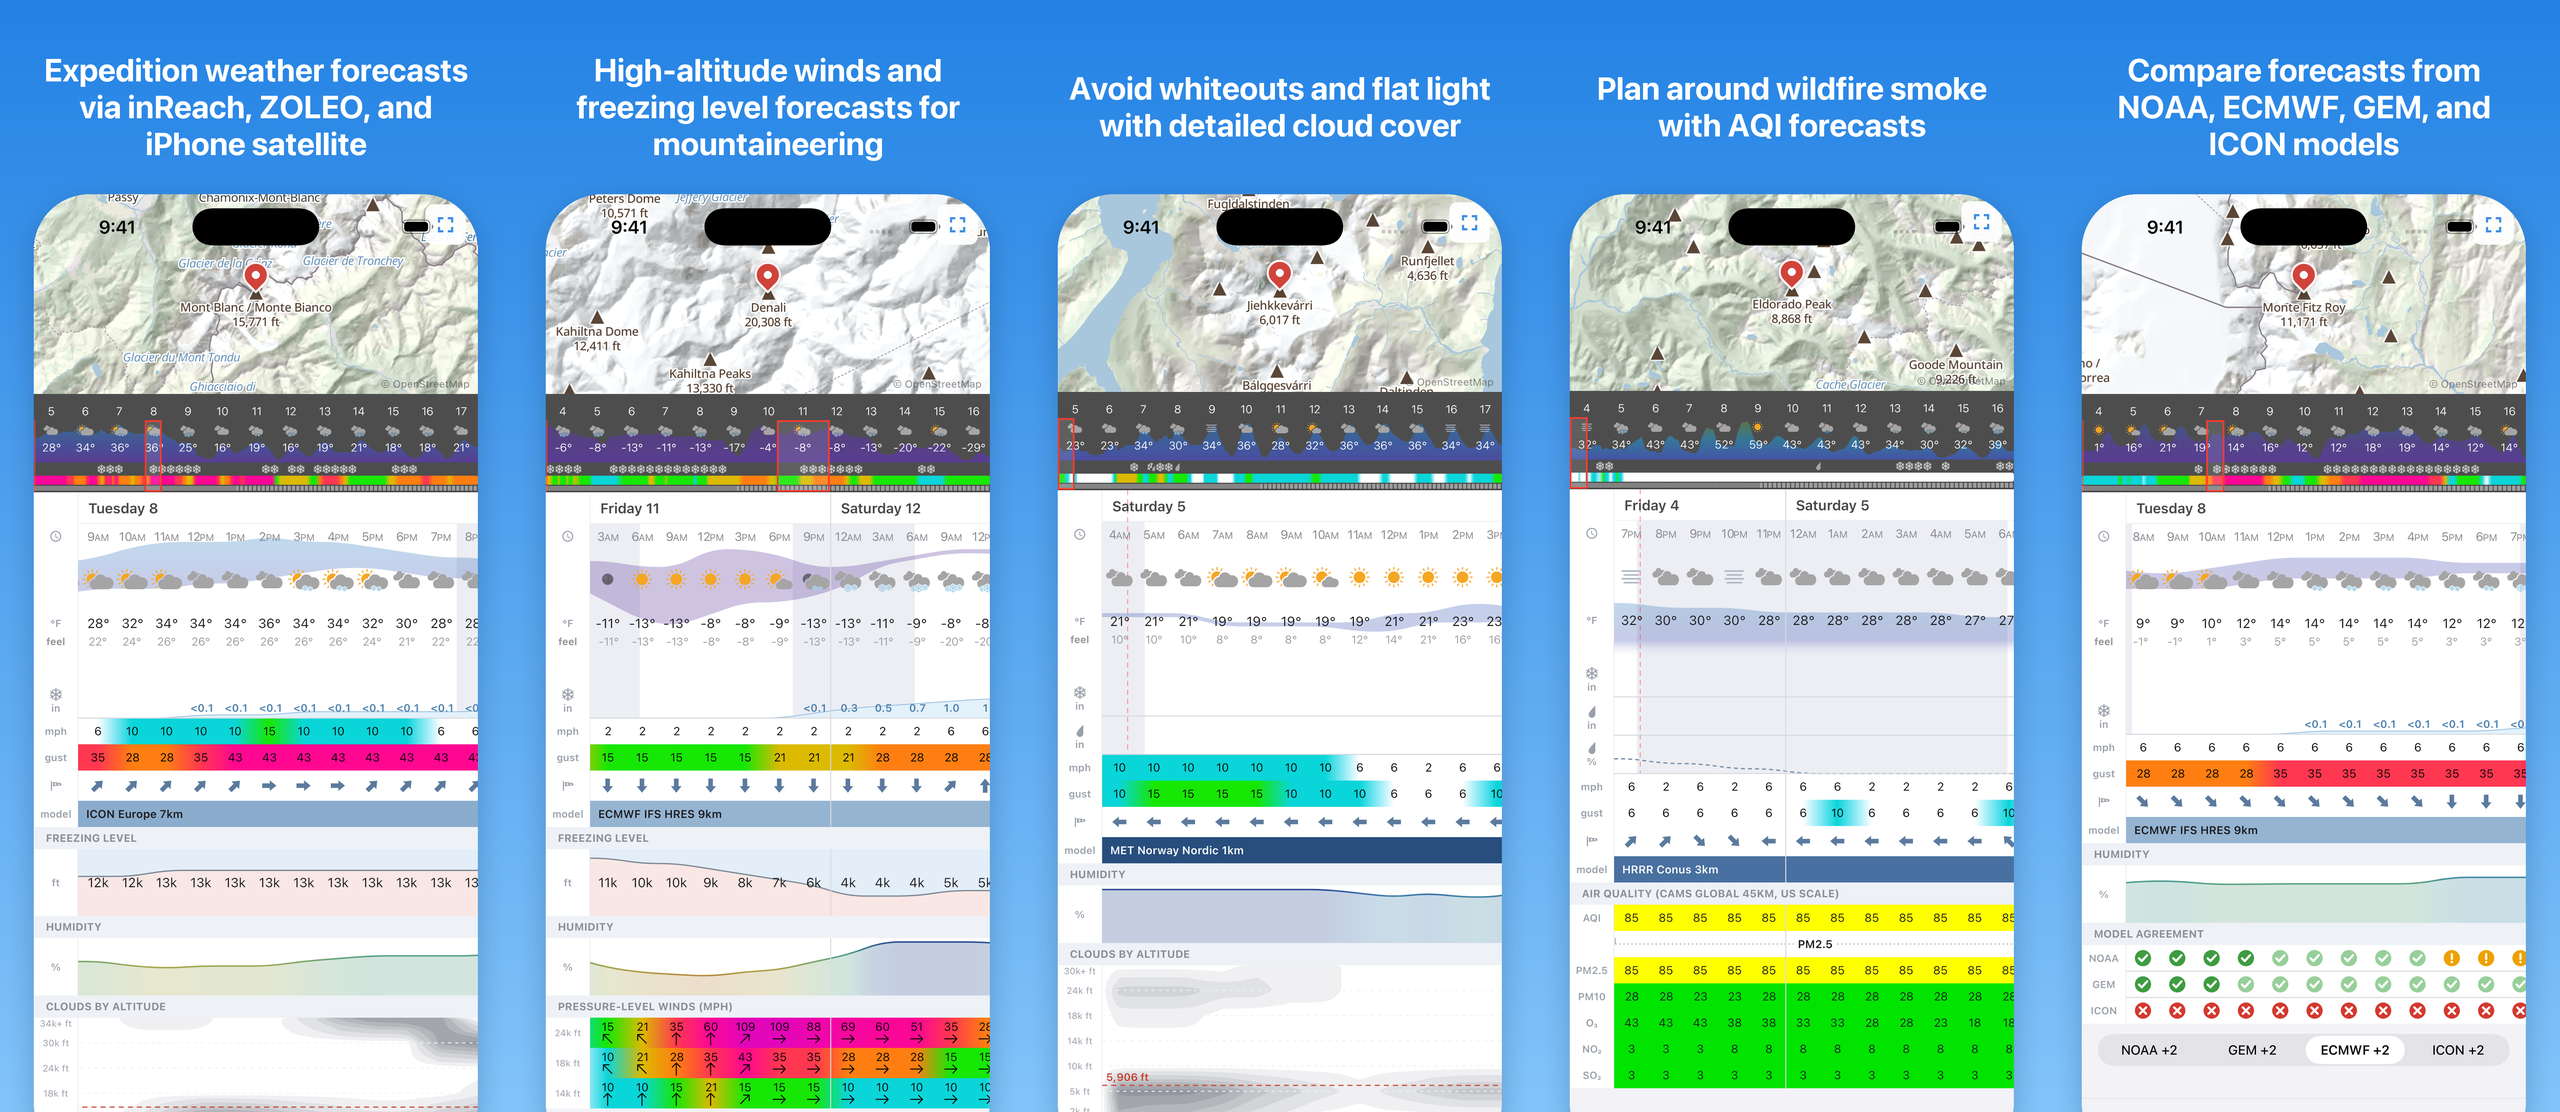
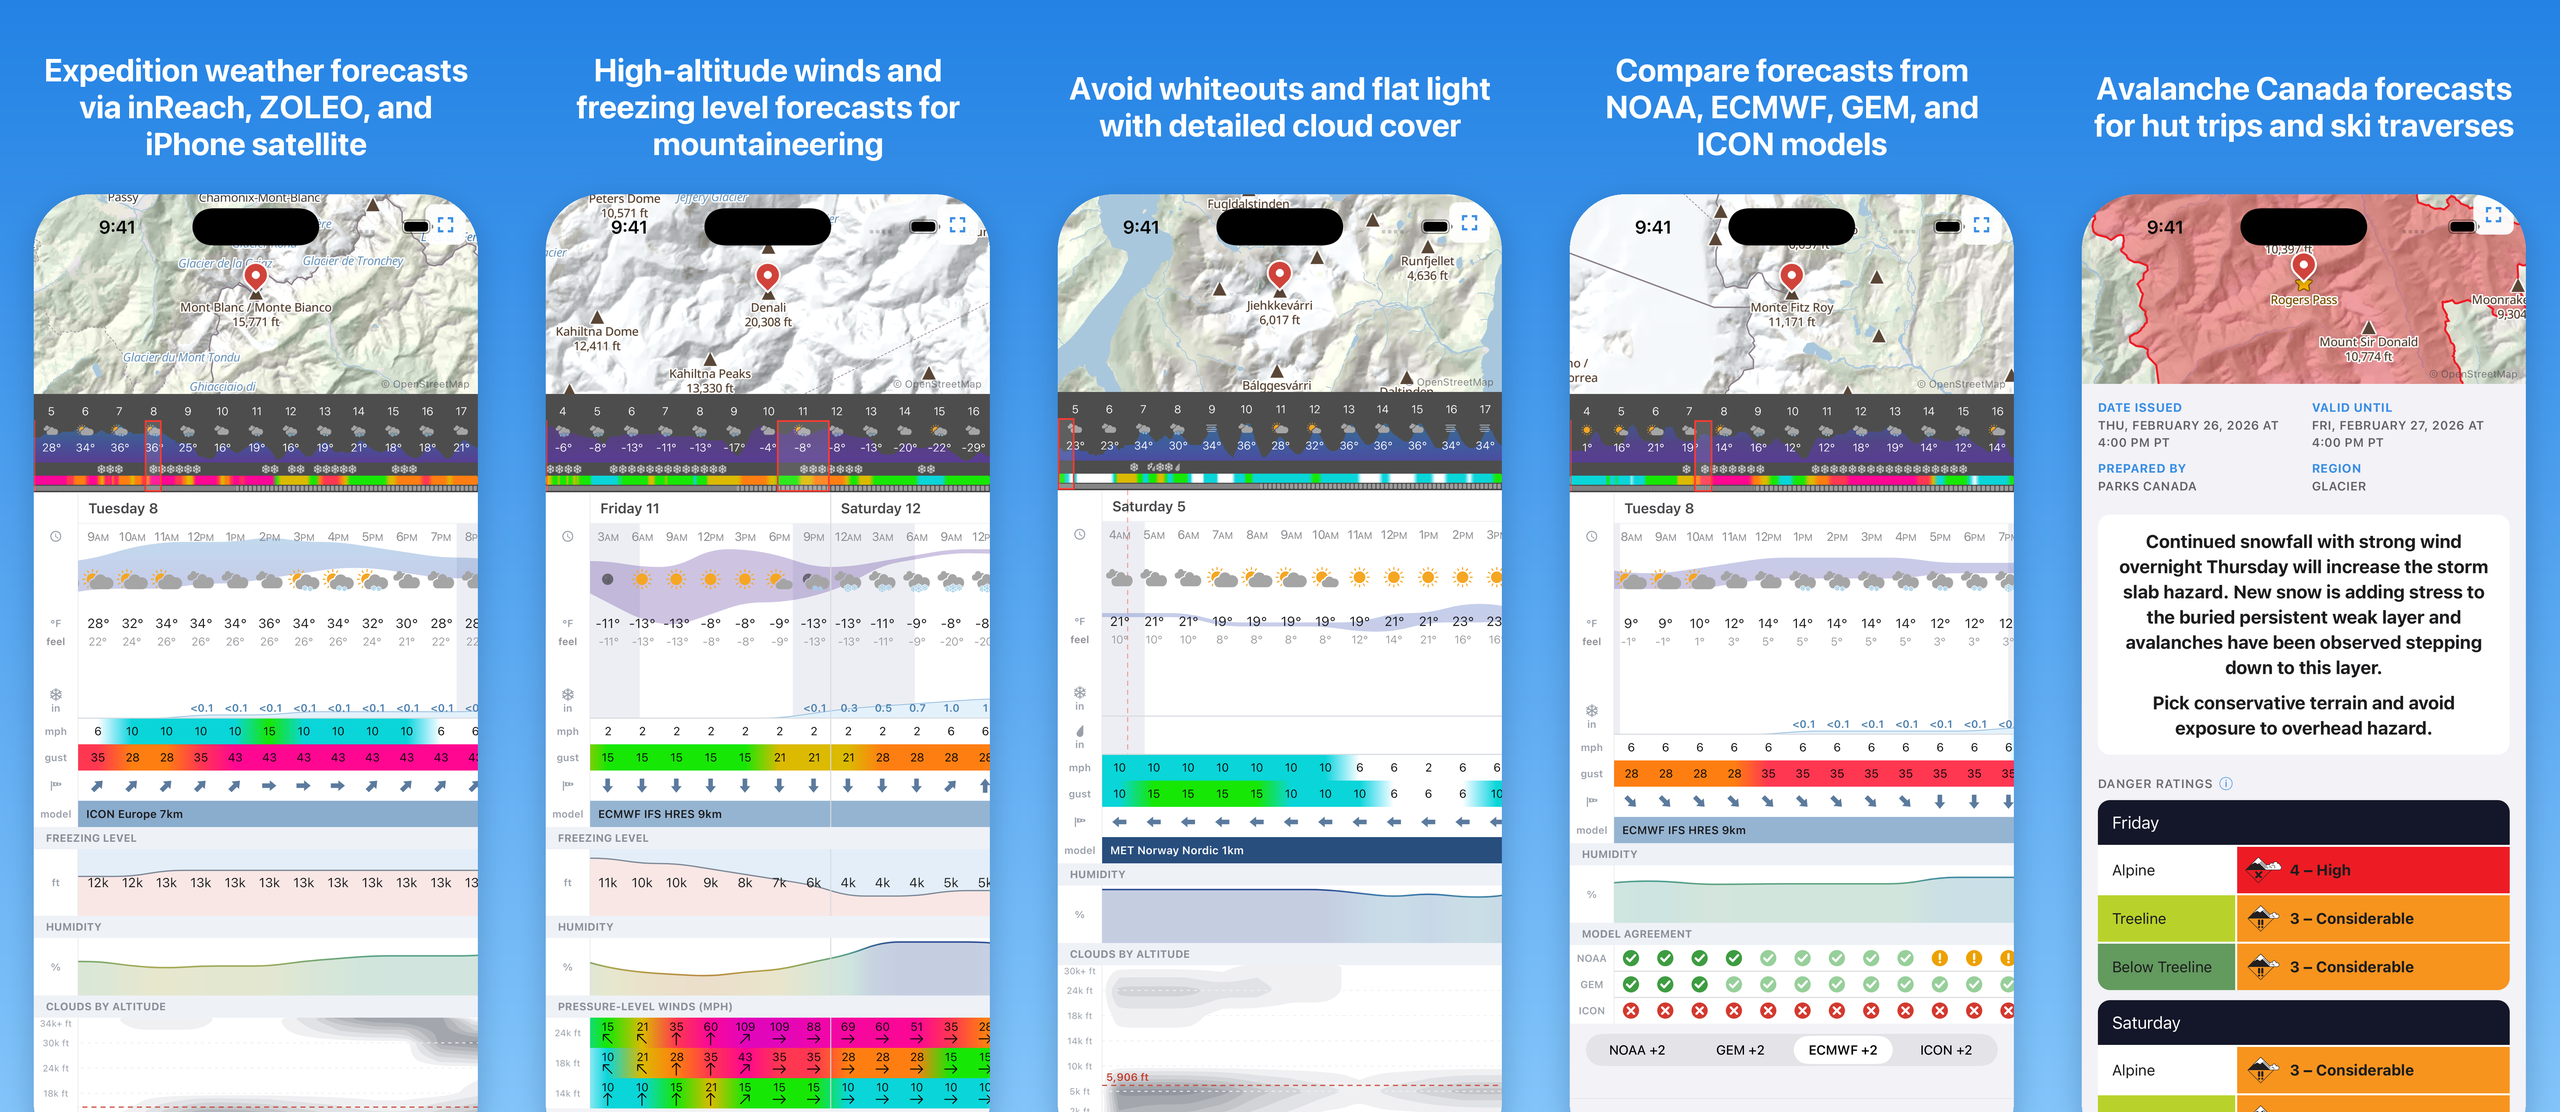
Add avalanche screenshots and update website

Changed region(s): [[0.5938, 0.0306, 1.0, 1.0]]

diff --git a/packages/mobile/test/shot-fixtures.test.ts b/packages/mobile/test/shot-fixtures.test.ts
@@ -1,10 +1,11 @@
 import { describe, expect, it, vi } from 'vitest';
 import { execFileSync } from 'node:child_process';
 import { createHash } from 'node:crypto';
-import { mkdtempSync, rmSync } from 'node:fs';
+import { mkdtempSync, readFileSync, rmSync } from 'node:fs';
 import { tmpdir } from 'node:os';
 import { join } from 'node:path';
-import { isValidToken } from '@weather/protocol';
+import { gunzipSync } from 'node:zlib';
+import { isValidToken, loadModels } from '@weather/protocol';
 
 // The seed's files, read the way the native store reads them: inline manifest values directly,
 // null entries from the overflow file named by the key's MD5.
@@ -28,9 +29,10 @@ vi.mock('expo-constants', () => ({ default: { expoConfig: null } }));
 vi.hoisted(() => { (globalThis as { __DEV__?: boolean }).__DEV__ = false; });
 
 import { loadToken } from '../account';
-import { decodeAny, loadStore } from '../cache';
-import { loadAqiScale, loadDevice, loadTimeFormat, loadTwoMessages, loadUnits } from '../settings';
-import { SEED_SETTINGS, SEED_TOKEN, SHOTS } from '../screenshots/shots.mjs';
+import { decodeAny, isAvalancheContext, loadStore, setAvalancheModels } from '../cache';
+import { findFavorite, loadFavorites } from '../favorites';
+import { loadAqiScale, loadDevice, loadHideExpiredBanner, loadTimeFormat, loadTwoMessages, loadUnits } from '../settings';
+import { SEED_SETTINGS, SEED_TOKEN, SHOTS, requestCount } from '../screenshots/shots.mjs';
 import { buildSeed, loadFixtures, requestCode, seedEntries, storageFiles, storageSql } from '../scripts/shot-fixtures.mjs';
 
 describe('screenshot seed', () => {
@@ -39,7 +41,7 @@ describe('screenshot seed', () => {
   });
 
   it('message codes are unique across the table', () => {
-    const codes = SHOTS.flatMap((s) => s.requests.map((_, i) => requestCode(s, i)));
+    const codes = SHOTS.flatMap((s) => Array.from({ length: requestCount(s) }, (_, i) => requestCode(s, i)));
     expect(new Set(codes).size).toBe(codes.length);
     expect(Math.max(...codes)).toBeLessThan(128);
   });
@@ -81,14 +83,20 @@ describe('screenshot seed', () => {
     expect(await loadAqiScale()).toBe(SEED_SETTINGS.aqi_scale);
     expect(await loadDevice()).toBe(SEED_SETTINGS.builder_device);
     expect(await loadTwoMessages()).toBe(true);
+    expect(await loadHideExpiredBanner()).toBe(true);
+    const favorites = await loadFavorites();
 
     const store = await loadStore(SEED_TOKEN);
     const expected = fixtures.reduce((n, f) => n + f.requests.length, 0);
     expect(store.slots).toHaveLength(expected);
+    setAvalancheModels(loadModels(gunzipSync(readFileSync(new URL('../../protocol/assets/avcan-model.bin.gz', import.meta.url)))));
     for (const slot of store.slots) {
       const decoded = decodeAny(slot.encoded!, SEED_TOKEN);
-      if (decoded.kind !== 'weather') throw new Error('seeded a non-weather forecast');
-      expect(decoded.msg.periods.length).toBeGreaterThan(0);
+      expect(decoded.kind).toBe(isAvalancheContext(slot.context) ? 'avalanche' : 'weather');
+      const shot = SHOTS.find((s) => s.lat === slot.context.lat && s.lon === slot.context.lon)!;
+      expect(findFavorite(favorites, slot.context)?.name).toBe('favorite' in shot ? shot.favorite : undefined);
+      if (decoded.kind === 'weather') expect(decoded.msg.periods.length).toBeGreaterThan(0);
+      else expect(decoded.forecast.danger.length).toBeGreaterThan(0);
       // Recorded dates, not today's: the start is the hour-aligned request time of its recording.
       expect(slot.context.start % 3600000).toBe(0);
       expect(slot.context.start).toBeLessThanOrEqual(recordedLatest);

diff --git a/packages/mobile/AvalancheScreen.tsx b/packages/mobile/AvalancheScreen.tsx
@@ -1,4 +1,4 @@
-import { useMemo, useState, type ReactNode } from 'react';
+import { useEffect, useMemo, useState, type ReactNode } from 'react';
 import { Platform, StyleSheet, Text, TouchableOpacity, View } from 'react-native';
 import MaterialCommunityIcons from '@expo/vector-icons/MaterialCommunityIcons';
 import { SkiaPictureView, Skia, matchFont, type SkCanvas, type SkFont, type SkPicture, type SkSVG } from '@shopify/react-native-skia';
@@ -8,7 +8,7 @@ import { drawText, fillPaint, strokePaint, textWidth } from './skiaPaint';
 import { palette } from './palette';
 import InfoModal from './components/InfoModal';
 import Section from './components/Section';
-import type { TimeFormat } from './settings';
+import { loadHideExpiredBanner, type TimeFormat } from './settings';
 import {
   CONFIDENCE_NAMES, DANGER_SCALE, DANGER_SCALE_INTRO, DISCLAIMERS, bulletinCenter, preparedBy, ELEVATION_NAMES, PROBLEM_NAMES, ROSE_ELEVATION_NAMES, dangerCell, dangerTables, likelihoodScale,
   sizeScale, stampLabel,
@@ -386,12 +386,14 @@ export default function AvalancheForecastView({ forecast, region, timeFormat }: 
   // The page's width, measured on layout; the pictures draw to what is left inside a card.
   const [pageW, setPageW] = useState(0);
   const [scaleInfo, setScaleInfo] = useState(false);
+  const [hideExpired, setHideExpired] = useState(false);
+  useEffect(() => { loadHideExpiredBanner().then(setHideExpired); }, []);
   const graphicW = pageW - 2 * PAD - 2 * CARD_PAD;
   const stamp = (ms: number) => stampLabel(ms, forecast.timezone, timeFormat);
   const disclaimer = DISCLAIMERS[bulletinCenter(forecast)];
   return (
     <View style={styles.page} onLayout={(e) => setPageW(e.nativeEvent.layout.width)}>
-      {forecast.expires < Date.now() && (
+      {forecast.expires < Date.now() && !hideExpired && (
         <View style={styles.expired}>
           <MaterialCommunityIcons name="alert" size={20} color={palette.warning} />
           <Text style={styles.expiredText}>This forecast is no longer valid</Text>

diff --git a/packages/server/src/assets.ts b/packages/server/src/assets.ts
@@ -36,7 +36,7 @@ const ASSETS: Record<string, { file: string; type: string }> = {
   // and iOS rounds the corners itself — unlike favicon.ico, which has to bring its own.
   "icon-512.jpg": { file: "../public/icon-512.jpg", type: "image/jpeg" },
   // The landing page's screenshot strip, listed here in the order the strip draws them, which is
-  // the App Store listing's order. These are the App Store frames themselves — sky, device and
+  // the README's set and order (README_SHOTS in frame-screenshots.py). These are the App Store frames themselves — sky, device and
   // baked-in caption — resized from packages/mobile/screenshots/framed (the 1320x2868 output of
   // mobile's scripts/frame-screenshots.py, already sRGB with no EXIF, so a plain Pillow resize +
   // `save(out, "JPEG", quality=78, optimize=True, progressive=True)` is the whole job whenever
@@ -53,8 +53,8 @@ const ASSETS: Record<string, { file: string; type: string }> = {
   "shot-overview.jpg": { file: "../public/shot-overview.jpg", type: "image/jpeg" },
   "shot-altitude.jpg": { file: "../public/shot-altitude.jpg", type: "image/jpeg" },
   "shot-cloud.jpg": { file: "../public/shot-cloud.jpg", type: "image/jpeg" },
-  "shot-aqi.jpg": { file: "../public/shot-aqi.jpg", type: "image/jpeg" },
   "shot-agreement.jpg": { file: "../public/shot-agreement.jpg", type: "image/jpeg" },
+  "shot-avalanche.jpg": { file: "../public/shot-avalanche.jpg", type: "image/jpeg" },
   // The landing page's "How it works" strip, one frame per step in step order: hand-cropped phone
   // captures composed as a stack of rounded cards on white, 750px wide like the shots. The step
   // captions are page text in landing.ts, not part of the frame. These are made by hand from

diff --git a/packages/mobile/settings.ts b/packages/mobile/settings.ts
@@ -138,6 +138,8 @@ const TWO_MESSAGES_KEY = 'builder_two_messages';
 const PINNED_COORDS_KEY = 'pinned_coords';
 const FAVORITES_SORT_KEY = 'favorites_sort';
 const FAVORITES_SORT_REVERSED_KEY = 'favorites_sort_reversed';
+// Written only by the screenshot seed (scripts/seed-shots.mts); no setting in the app sets it.
+const HIDE_EXPIRED_BANNER_KEY = 'hide_expired_banner';
 const DEFAULT_TWO_MESSAGES = true;
 const DEFAULT_SYSTEM: Units = 'imperial';
 const DEFAULT_TIME_FORMAT: TimeFormat = '12h';
@@ -302,11 +304,22 @@ export async function saveFavoritesSortReversed(reversed: boolean): Promise<void
 
 // Forget every stored preference, the pre-per-quantity master switch included. Part of account
 // deletion: the next launch starts from the defaults as a fresh install would.
+// Hides the avalanche view's expired-forecast banner, so a seeded past bulletin screenshots as a
+// current one.
+export async function loadHideExpiredBanner(): Promise<boolean> {
+  try {
+    return (await AsyncStorage.getItem(HIDE_EXPIRED_BANNER_KEY)) === 'true';
+  } catch {
+    return false;
+  }
+}
+
 export async function clearSettings(): Promise<void> {
   try {
     await AsyncStorage.multiRemove([
       LEGACY_UNITS_KEY, UNIT_PREFS_KEY, TIME_FORMAT_KEY, COORD_FORMAT_KEY, AQI_SCALE_KEY, DEVICE_KEY,
       TWO_MESSAGES_KEY, PINNED_COORDS_KEY, FAVORITES_KEY, FAVORITES_SORT_KEY, FAVORITES_SORT_REVERSED_KEY,
+      HIDE_EXPIRED_BANNER_KEY,
     ]);
   } catch { /* ignore */ }
 }

diff --git a/packages/server/src/pages/landing.ts b/packages/server/src/pages/landing.ts
@@ -211,12 +211,12 @@ satellite messaging.</p>
       alt="Avoid whiteouts and flat light with detailed cloud cover">
   </figure>
   <figure>
-    <img src="${img("shot-aqi.jpg")}" width=750 height=1630 loading=lazy
-      alt="Plan around wildfire smoke with AQI forecasts">
-  </figure>
-  <figure>
     <img src="${img("shot-agreement.jpg")}" width=750 height=1630 loading=lazy
       alt="Compare forecasts from NOAA, ECMWF, GEM, and ICON models">
+  </figure>
+  <figure>
+    <img src="${img("shot-avalanche.jpg")}" width=750 height=1630 loading=lazy
+      alt="Avalanche Canada forecasts for hut trips and ski traverses">
   </figure>
 </div>
 
@@ -268,6 +268,7 @@ satellite messaging.</p>
   forecasts.</li>
   <li><strong>Model agreement</strong>: See how well the forecast agrees with models from NOAA,
   ECMWF, ECCC, and DWD.</li>
+  <li><strong>Avalanche forecasts</strong>: Full avalanche forecasts from Avalanche Canada.</li>
   <li><strong>Works offline</strong>: All forecasts are saved on your device for comparing
   multiple models and past forecasts while offline.</li>
   <li><strong>Private</strong>: ${BRAND} requires no account and does not store your name, email,

diff --git a/packages/mobile/scripts/frame-screenshots.py b/packages/mobile/scripts/frame-screenshots.py
@@ -44,6 +44,7 @@ CAPTIONS_LIST = [
     ("cloud", "Avoid whiteouts and flat light with detailed cloud cover"),
     ("aqi", "Plan around wildfire smoke with AQI forecasts"),
     ("agreement", "Compare forecasts from NOAA, ECMWF, GEM, and ICON models"),
+    ("avalanche", "Avalanche Canada forecasts for hut trips and ski traverses"),
 ]
 
 # The Google Play set uses the same shots in the same order; a caption here replaces the App
@@ -100,12 +101,12 @@ LINE_SPACING = 1.16
 # The variable system font; 'Bold' is the named instance matching RN's fontWeight 700.
 FONT_PATH = "/System/Library/Fonts/SFNS.ttf"
 
-# The README's one image: the first READERS_COMBO_N framed frames butted together. No gutter
+# The README's one image: the README_SHOTS frames, in this order, butted together. No gutter
 # between them — every frame carries the same vertical sky ramp, so the seams fall on identical
 # colour at every row and disappear, and the devices are already held apart by their own side
 # margins. Written at 2x the width GitHub renders a README at, which is where the phone UI stops
 # being legible below.
-README_COMBO_N = 5
+README_SHOTS = ["overview", "altitude", "cloud", "agreement", "avalanche"]
 README_COMBO_W = 2560
 
 HERE = Path(__file__).resolve().parent
@@ -266,26 +267,29 @@ def main() -> None:
     caption_zone_h = max(len(w) for w in wrapped) * int(font.size * LINE_SPACING)
 
     written = set()
-    combo: list[Image.Image] = []
+    combo: dict[str, Image.Image] = {}
     for i, ((name, _), lines) in enumerate(zip(CAPTIONS_LIST, wrapped)):
         src = src_dir / f"{name}.png"
         out = out_dir / f"{i + 1:02d}-{name}.png"
         img = frame(src, lines, font, caption_zone_h, (canvas_w, canvas_h), platform["radius_ratio"])
         img.save(out)
         written.add(out.name)
-        if len(combo) < README_COMBO_N:
-            combo.append(img)
+        if name in README_SHOTS:
+            combo[name] = img
         print(f"{out.name}  {img.width}x{img.height}  ({len(lines)} lines @ {font.size}px)")
 
     # The README shows the App Store set only.
     if args.out is None and not args.android and combo:
+        missing = [name for name in README_SHOTS if name not in combo]
+        if missing:
+            sys.exit("README_SHOTS not in CAPTIONS_LIST: " + ", ".join(missing))
         readme_combo = src_dir / "readme.png"
-        strip = Image.new("RGB", (canvas_w * len(combo), canvas_h))
-        for i, img in enumerate(combo):
-            strip.paste(img, (i * canvas_w, 0))
+        strip = Image.new("RGB", (canvas_w * len(README_SHOTS), canvas_h))
+        for i, name in enumerate(README_SHOTS):
+            strip.paste(combo[name], (i * canvas_w, 0))
         h = round(README_COMBO_W * strip.height / strip.width)
         strip.resize((README_COMBO_W, h), Image.LANCZOS).save(readme_combo)
-        print(f"{readme_combo.name}  {README_COMBO_W}x{h}  (frames 1-{len(combo)})")
+        print(f"{readme_combo.name}  {README_COMBO_W}x{h}  ({', '.join(README_SHOTS)})")
 
     # Reordering CAPTIONS_LIST or benching an entry leaves its framed output behind under the old
     # number, and a stale frame sitting next to the real ones is a plausible thing to upload by

diff --git a/README.md b/README.md
@@ -2,7 +2,7 @@
 
 Going Blue is an expedition weather app designed specifically for satellite messengers. It was built for a Denali ski expedition with one goal: to get you all the weather information you would have at home, wherever you are. Going Blue uses a custom codec to pack hundreds of forecast data points into a single message that can be sent over SMS, Garmin inReach, ZOLEO, or iPhone satellite messaging. Going Blue is deployed at [going.blue](https://going.blue/) and is available on the [App Store](https://apps.apple.com/app/id6798411927).
 
-<img src="packages/mobile/screenshots/readme.png" width="100%" alt="Four screenshots: a 13-day meteogram for Mont Blanc, the Builder tab's location, model and variable options, a Denali forecast with freezing level and pressure-level winds, and a forecast with air quality">
+<img src="packages/mobile/screenshots/readme.png" width="100%" alt="Five screenshots: a Mont Blanc meteogram with humidity, freezing level, and detailed clouds; Denali with freezing level and pressure-level winds; cloud cover on Jiehkkevarri; model agreement for Monte Fitz Roy; and the Avalanche Canada forecast for Rogers Pass">
 
 ## How it works
 

diff --git a/.agents/skills/screenshots/SKILL.md b/.agents/skills/screenshots/SKILL.md
@@ -62,6 +62,14 @@ Variables: Humidity, model agreement
 Window start: Tuesday the 8th, 8am
 Filename: agreement
 
+## Avalanche
+
+Caption: "Avalanche Canada forecasts for hut trips and ski traverses"
+Location: Rogers Pass, Glacier National Park (51.30098,-117.51949), seeded as a favorite
+Forecast: Glacier, requested for February 27, 2026
+Open the Avalanche tab and tap the Rogers Pass entry under "Saved forecasts". The seed hides the "This forecast is no longer valid" banner.
+Filename: avalanche
+
 # Tips
 
 1. How to scrub: Tap the mini meteogram at the target day to jump the window there, then drag the table horizontally to align the first column. Drag slowly and hold at the end, otherwise it flings.
